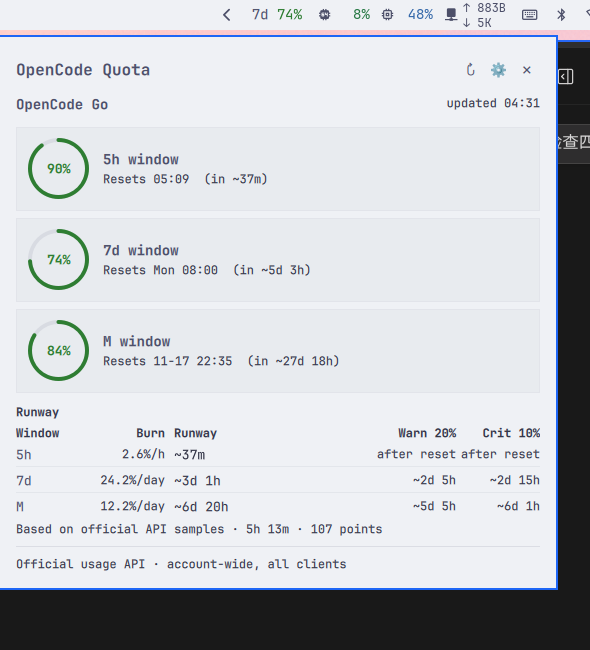
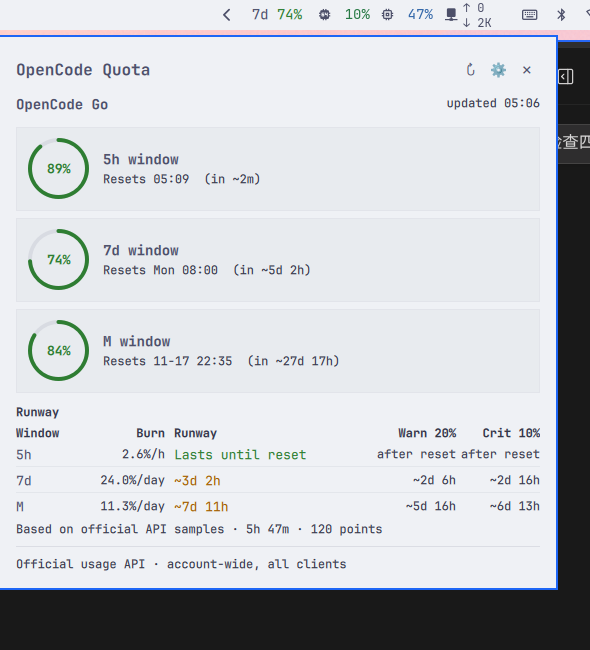
Runway: burn-backed tooltip, forecast colors, sample basis

diff --git a/ui/QuotaTooltip.qml b/ui/QuotaTooltip.qml
@@ -40,7 +40,7 @@ PopupWindow {
   }
 
   color: "transparent"
-  implicitWidth: Style.space(424)
+  implicitWidth: Style.space(428)
   implicitHeight: bubble.implicitHeight
 
   property bool revealed: false
@@ -85,7 +85,38 @@ PopupWindow {
   function runwayText(name) {
     if (!report || !report.runway || !report.runway[name]) return ""
     var window = root.windows[name] || ({})
-    return Model.runwayLabel(report.runway[name].seconds, resetSeconds(window), window.remaining)
+    var label = Model.runwayLabel(report.runway[name].seconds, resetSeconds(window), window.remaining)
+    if (label === "") return ""
+    var burn = Model.burnText(report.runway[name].ratePerHour, name)
+    return burn ? label + " \u00b7 " + burn : label
+  }
+
+  function runwayColor(name) {
+    var window = root.windows[name] || ({})
+    var entry = report && report.runway ? report.runway[name] : null
+    var level = Model.runwayLevel(window.remaining, entry ? entry.seconds : null,
+      resetSeconds(window), root.cfg.warnRemaining, root.cfg.critRemaining)
+    if (level === "crit") return critColor
+    if (level === "warn") return warnColor
+    if (level === "normal") return okColor
+    return dim
+  }
+
+  readonly property string sampleSpan: {
+    if (!report || !report.samples || report.samples.length === 0) return ""
+    var first = new Date(report.samples[0].t).getTime()
+    var last = new Date(report.samples[report.samples.length - 1].t).getTime()
+    if (!isFinite(first) || !isFinite(last)) return ""
+    return Model.fmtDuration(Math.max(0, (last - first) / 1000))
+  }
+
+  readonly property string footerText: {
+    var span = root.sampleSpan
+    if (span !== "") {
+      return "Official API \u00b7 estimates from " + span + " of samples"
+        + (root.report && root.report.stale ? " \u00b7 cached" : "")
+    }
+    return "Official API \u00b7 all clients"
   }
 
   anchor {
@@ -201,7 +232,7 @@ PopupWindow {
 
         Row {
           width: parent.width
-          spacing: Style.space(8)
+          spacing: Style.space(6)
 
           Text {
             width: Style.space(34)
@@ -213,7 +244,7 @@ PopupWindow {
             textFormat: Text.PlainText
           }
           Text {
-            width: Style.space(56)
+            width: Style.space(50)
             text: root.cfg.percentMode === "used" ? "Used" : "Left"
             color: root.dim
             font.family: root.fontFamily
@@ -223,8 +254,8 @@ PopupWindow {
             textFormat: Text.PlainText
           }
           Text {
-            width: parent.width - Style.space(34) - Style.space(56)
-              - (root.showRunway ? Style.space(90) + 3 * Style.space(8) : 2 * Style.space(8))
+            width: parent.width - Style.space(34) - Style.space(50)
+              - (root.showRunway ? Style.space(155) + 3 * Style.space(6) : 2 * Style.space(6))
             text: "Resets"
             color: root.dim
             font.family: root.fontFamily
@@ -234,7 +265,7 @@ PopupWindow {
           }
           Text {
             visible: root.showRunway
-            width: Style.space(90)
+            width: Style.space(155)
             text: "Runway"
             color: root.dim
             font.family: root.fontFamily
@@ -251,7 +282,7 @@ PopupWindow {
           delegate: Row {
             required property string modelData
             width: parent.width
-            spacing: Style.space(8)
+            spacing: Style.space(6)
 
             readonly property var win: root.windows[modelData] ? root.windows[modelData] : ({})
             readonly property bool avail: Model.isAvailable(win)
@@ -266,7 +297,7 @@ PopupWindow {
               textFormat: Text.PlainText
             }
             Text {
-              width: Style.space(56)
+              width: Style.space(50)
               text: parent.avail
                 ? Model.percentText(parent.win, root.cfg.percentMode) + "%"
                   + (Number(parent.win.remaining) <= root.cfg.critRemaining ? "!" : "")
@@ -279,10 +310,10 @@ PopupWindow {
               textFormat: Text.PlainText
             }
             Text {
-              width: parent.width - Style.space(34) - Style.space(56)
-                - (root.showRunway ? Style.space(90) + 3 * Style.space(8) : 2 * Style.space(8))
+              width: parent.width - Style.space(34) - Style.space(50)
+                - (root.showRunway ? Style.space(155) + 3 * Style.space(6) : 2 * Style.space(6))
               text: parent.avail
-                ? "resets " + Model.fmtReset(modelData, parent.win.resetsAt)
+                ? Model.fmtReset(modelData, parent.win.resetsAt)
                   + " (" + Model.fmtDuration(root.resetSeconds(parent.win)) + ")"
                 : "no data"
               color: root.dim
@@ -293,9 +324,9 @@ PopupWindow {
             }
             Text {
               visible: root.showRunway
-              width: Style.space(90)
+              width: Style.space(155)
               text: root.runwayText(modelData)
-              color: root.dim
+              color: root.runwayColor(modelData)
               font.family: root.fontFamily
               font.pixelSize: Style.font.caption
               horizontalAlignment: Text.AlignRight
@@ -316,7 +347,7 @@ PopupWindow {
       }
 
       Text {
-        text: "Official API \u00b7 all clients"
+        text: root.footerText
         color: root.dim
         font.family: root.fontFamily
         font.pixelSize: Style.font.caption

diff --git a/ui/RunwayTable.qml b/ui/RunwayTable.qml
@@ -13,6 +13,7 @@ Column {
   property color foreground: Commons.Color.foreground
   property color warnColor: "#e8a33d"
   property color critColor: Commons.Color.urgent
+  property color okColor: "#9ece6a"
   property string fontFamily: Style.font.family
 
   readonly property var cfg: Model.settingsWithDefaults(settings)
@@ -89,6 +90,16 @@ Column {
   function etaFor(name, threshold) {
     var window = windows[name] || ({})
     return Model.etaLabel(window.remaining, threshold, rate(name), resetSeconds(window))
+  }
+
+  function runwayColor(name) {
+    var window = windows[name] || ({})
+    var level = Model.runwayLevel(window.remaining, runwaySeconds(name),
+      resetSeconds(window), cfg.warnRemaining, cfg.critRemaining)
+    if (level === "crit") return critColor
+    if (level === "warn") return warnColor
+    if (level === "normal") return okColor
+    return dim
   }
 
   function etaColor(name, threshold, level) {
@@ -189,7 +200,7 @@ Column {
         Text {
           width: root.runwayWidth
           text: root.runwayFor(modelData)
-          color: root.runwayFor(modelData) === "Lasts until reset" ? root.foreground : root.dim
+          color: root.runwayColor(modelData)
           font.family: root.fontFamily
           font.pixelSize: Style.font.bodySmall
           elide: Text.ElideRight

diff --git a/Model.js b/Model.js
@@ -274,6 +274,20 @@ function etaLabel(remaining, threshold, ratePerHour, resetInSec) {
   return "~" + fmtDuration(seconds)
 }
 
+function runwayLevel(remaining, seconds, resetInSec, warn, crit) {
+  var rem = remaining === null || remaining === undefined ? null : Number(remaining)
+  var sec = seconds === null || seconds === undefined ? null : Number(seconds)
+  if (rem !== null && isFinite(rem)) {
+    if (rem <= Number(crit)) return "crit"
+    if (rem <= Number(warn)) return "warn"
+  }
+  if (sec === null || !isFinite(sec)) return "none"
+  if (sec <= 0) return "crit"
+  var reset = resetInSec === null || resetInSec === undefined ? null : Number(resetInSec)
+  if (reset !== null && isFinite(reset) && sec < reset - 60) return "warn"
+  return "normal"
+}
+
 function withPending(saved, pending) {
   if (!saved) return null
   var out = {}
@@ -351,6 +365,7 @@ if (typeof module !== "undefined" && module.exports) {
     burnText: burnText,
     runwayLabel: runwayLabel,
     etaLabel: etaLabel,
+    runwayLevel: runwayLevel,
     fmtReset: fmtReset,
     fmtUpdated: fmtUpdated,
     stateMessage: stateMessage,

diff --git a/tests/model-test.qml b/tests/model-test.qml
@@ -105,6 +105,12 @@ Item {
     check("eta now", Model.etaLabel(15, 20, 1, 86400) === "now")
     check("eta after reset", Model.etaLabel(50, 20, 1, 3600) === "after reset")
     check("eta no rate", Model.etaLabel(50, 20, 0, 3600) === "")
+    check("runway level normal", Model.runwayLevel(74, 7200, 3600, 20, 10) === "normal")
+    check("runway level short", Model.runwayLevel(74, 1800, 3600, 20, 10) === "warn")
+    check("runway level warn", Model.runwayLevel(15, 7200, 3600, 20, 10) === "warn")
+    check("runway level crit", Model.runwayLevel(5, 1800, 3600, 20, 10) === "crit")
+    check("runway level empty", Model.runwayLevel(0, 0, 3600, 20, 10) === "crit")
+    check("runway level none", Model.runwayLevel(74, null, 3600, 20, 10) === "none")
 
     var config = { layout: { right: [{ id: "jihonghe.opencode-quota", barWindows: "all" }, { id: "omarchy.clock" }] } }
     var saved = Model.savedBarSettings(config, "jihonghe.opencode-quota", { section: "right", index: 0 })

diff --git a/QuotaPanel.qml b/QuotaPanel.qml
@@ -239,6 +239,7 @@ Panel {
               foreground: root.foreground
               warnColor: root.warnColor
               critColor: root.critColor
+              okColor: root.okColor
               fontFamily: root.fontFamily
             }
           }

diff --git a/README.md b/README.md
@@ -99,6 +99,18 @@ from samples the plugin records each time it refreshes:
   enough new samples accumulate. The panel hides the whole table when no window
   has a usable estimate.
 - The estimates use official readings, so they cover every client.
+- Runway colors:
+  - **Green**: remaining is healthy and the current burn lasts until reset.
+  - **Amber**: remaining is at or below the warn threshold, or the current
+    burn is projected to exhaust the window before reset.
+  - **Red**: remaining is at or below the critical threshold, or the window is
+    empty.
+- The percentage color reflects **current remaining**; the Runway color
+  reflects the **forecast**. They can differ: a green percentage with an amber
+  runway means there is still quota, but the current burn will use it before
+  the window resets.
+- In the tooltip, `Resets` shows only the time and relative countdown; the
+  `Runway` cell also shows the burn rate, and the footer shows the sample span.
 
 ### Data sources and privacy
 
@@ -259,6 +271,14 @@ omarchy plugin remove jihonghe.opencode-quota
 - 如果用量平稳或窗口刚重置，该窗口暂时没有估算；所有窗口都没有可用估算时，
   整张表隐藏。
 - 估算来自官方读数，因此同样覆盖所有客户端。
+- Runway 颜色：
+  - **绿色**：剩余健康，且按当前速度能撑到重置。
+  - **amber**：剩余已到/低于警告阈值，或按当前速度会在重置前耗尽。
+  - **红色**：剩余已到/低于严重阈值，或窗口已经为空。
+- 百分比颜色表达**当前剩余**，Runway 颜色表达**预测**。两者可以不同：绿色百分比 +
+  amber runway 表示“还剩不少，但当前速度会在重置前用完”。
+- Tooltip 的 `Resets` 列只显示时间和相对倒计时；`Runway` 单元格附带 burn rate，
+  底部显示采样跨度。
 
 ### 数据源与隐私
 
